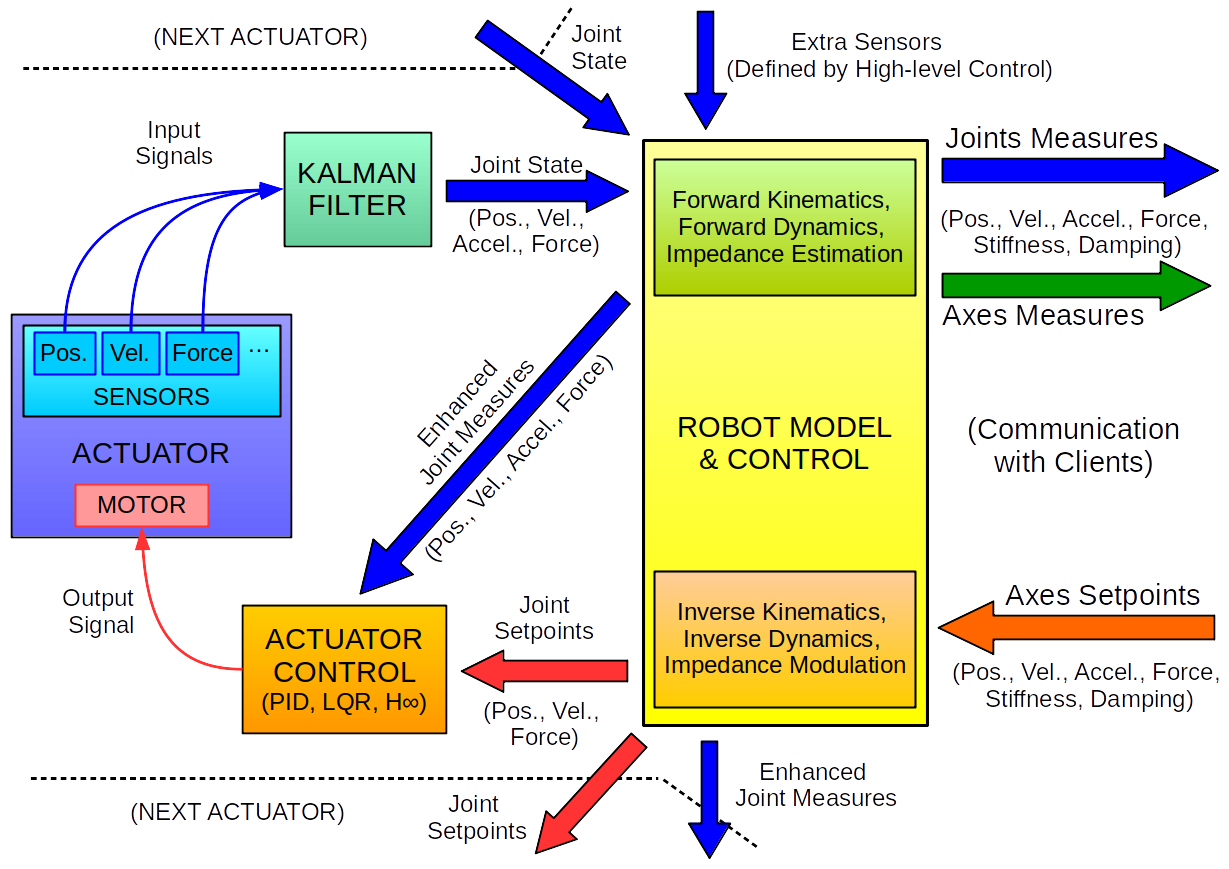
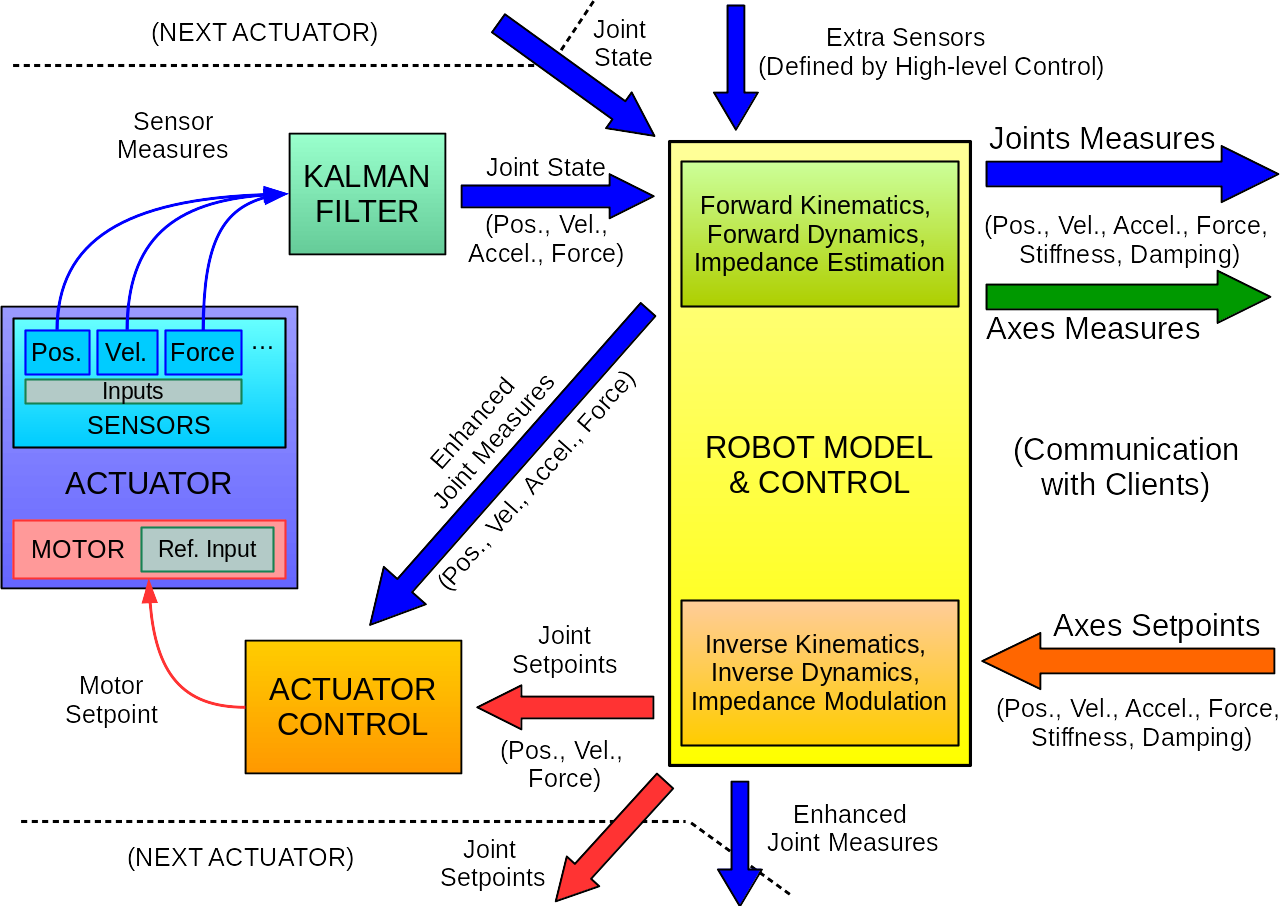
Update documentation

diff --git a/docs/index.html b/docs/index.html
@@ -109,19 +109,29 @@ $(document).ready(function(){initNavTree('index.html','');});
 <img src="https://raw.githubusercontent.com/EESC-MKGroup/RobotSystem-Lite/master/docs/img/control_abstraction_full.png" width="800" alt="" class="inline"/>
  <p>From top to bottom levels, the control application is expected to have/define:</p>
 <ul>
-<li>A <a href="https://en.wikipedia.org/wiki/Hash_table">hash table</a> containing one or more generic robot instances, complemented by:<ul>
-<li>A <a href="https://eesc-mkgroup.github.io/RobotSystem-Lite/robot_config.html">robot configuration</a> JSON file (inside **&lt;root_dir&gt;/config/robots/**), defining its used high-level control implementation and actuators</li>
-<li>The robot/actuators control itself, implemented as a plug-in library (inside **&lt;root_dir&gt;/plugins/robot_control/**), according to <a href="https://github.com/EESC-MKGroup/Robot-Control-Interface">Robot Control Interface</a> description</li>
-<li>A list of generic actuators list, each one, in turn, complemented by:<ul>
-<li>An <a href="https://eesc-mkgroup.github.io/RobotSystem-Lite/actuator_config.html">actuator configuration</a> JSON file (inside **&lt;root_dir&gt;/config/actuators/**), defining the lower-level control implementation, sensors and motor configuration and their related control variables (position, force, etc.)</li>
-<li>A list of generic sensors, each one, in turn, complemented by:<ul>
-<li><a href="https://eesc-mkgroup.github.io/RobotSystem-Lite/sensor_config.html">Sensor configuration</a> JSON file (inside **&lt;root_dir&gt;/config/sensors/**), defining the hardware/virtual input device/channel, reference sensor (if needed) and signal processing/conversion options</li>
+<li>The base robot instance (only 1 per control process), constituted by:<ul>
+<li>A <a href="https://eesc-mkgroup.github.io/RobotSystem-Lite/robot_config.html">robot configuration</a> JSON file (inside **&lt;root_dir&gt;/config/robots/**), defining its used high-level control implementation and actuator IDs</li>
+<li>The robot+actuators controller itself, implemented as a plug-in library (inside **&lt;root_dir&gt;/plugins/robot_control/**), according to <a href="https://github.com/EESC-MKGroup/Robot-Control-Interface">Robot Control Interface</a> description</li>
+<li>A list of generic actuators, with each one, in turn, composed of:<ul>
+<li>An <a href="https://eesc-mkgroup.github.io/RobotSystem-Lite/actuator_config.html">actuator configuration</a> JSON file (inside **&lt;root_dir&gt;/config/actuators/**), defining sensors and motor configuration IDs, their related control variables (position, force, etc.) and measurement deviations, as well as logging options</li>
+<li>A <a href="https://en.wikipedia.org/wiki/Kalman_filter">Kalman filter</a> for sensor fusion and complete joint state estimation</li>
+<li>A list of sensor IDs, each one, in turn, composed of:<ul>
+<li><a href="https://eesc-mkgroup.github.io/RobotSystem-Lite/sensor_config.html">Sensor configuration</a> JSON file (inside **&lt;root_dir&gt;/config/sensors/**), defining input sources inline configuration, inputs-output conversion expression and logging options</li>
+<li>A list of input sources, for which the configuration file defines:<ul>
 <li>The signal input code itself, implemented as a plug-in library (inside **&lt;root_dir&gt;/plugins/signal_io/**), according to <a href="https://github.com/EESC-MKGroup/Signal-IO-Interface">Signal I/O Interface</a> description</li>
+<li>Signal processing/conversion options</li>
 </ul>
 </li>
-<li>Generic actuation motor, complemented by:<ul>
-<li><a href="https://eesc-mkgroup.github.io/RobotSystem-Lite/motor_config.html">Motor configuration</a> JSON file (inside **&lt;root_dir&gt;/config/motors/**), defining the hardware/virtual output device/channel and signal generation options</li>
+</ul>
+</li>
+<li>Generic actuation motor, composed of:<ul>
+<li><a href="https://eesc-mkgroup.github.io/RobotSystem-Lite/motor_config.html">Motor configuration</a> JSON file (inside **&lt;root_dir&gt;/config/motors/**), defining the hardware/virtual output device/channel, reference input inline configuration (if needed), output conversion expression and logging options</li>
 <li>The signal output code itself, implemented as a plug-in library (inside **&lt;root_dir&gt;/plugins/signal_io/**), according to <a href="https://github.com/EESC-MKGroup/Signal-IO-Interface">Signal I/O Interface</a> description</li>
+<li>A optional reference input, for which the configuration file defines:<ul>
+<li>The signal input code itself, implemented as a plug-in library (inside **&lt;root_dir&gt;/plugins/signal_io/**), according to <a href="https://github.com/EESC-MKGroup/Signal-IO-Interface">Signal I/O Interface</a> description</li>
+<li>Signal processing/conversion options</li>
+</ul>
+</li>
 </ul>
 </li>
 </ul>

diff --git a/README.md b/README.md
@@ -48,17 +48,23 @@ In an effort to generalize and parameterize robot control in and efficient way, 
 
 From top to bottom levels, the control application is expected to have/define:
 
-- A [hash table](https://en.wikipedia.org/wiki/Hash_table) containing one or more generic robot instances, complemented by:
-    - A [robot configuration](https://eesc-mkgroup.github.io/RobotSystem-Lite/robot_config.html) JSON file (inside **<root_dir>/config/robots/**), defining its used high-level control implementation and actuators
-    - The robot/actuators control itself, implemented as a plug-in library (inside **<root_dir>/plugins/robot_control/**), according to [Robot Control Interface](https://github.com/EESC-MKGroup/Robot-Control-Interface) description
-    - A list of generic actuators list, each one, in turn, complemented by:
-        - An [actuator configuration](https://eesc-mkgroup.github.io/RobotSystem-Lite/actuator_config.html) JSON file (inside **<root_dir>/config/actuators/**), defining the lower-level control implementation, sensors and motor configuration and their related control variables (position, force, etc.)
-        - A list of generic sensors, each one, in turn, complemented by:
-            - [Sensor configuration](https://eesc-mkgroup.github.io/RobotSystem-Lite/sensor_config.html) JSON file (inside **<root_dir>/config/sensors/**), defining the hardware/virtual input device/channel, reference sensor (if needed) and signal processing/conversion options
-            - The signal input code itself, implemented as a plug-in library (inside **<root_dir>/plugins/signal_io/**), according to [Signal I/O Interface](https://github.com/EESC-MKGroup/Signal-IO-Interface) description
-        - Generic actuation motor, complemented by:
-            - [Motor configuration](https://eesc-mkgroup.github.io/RobotSystem-Lite/motor_config.html) JSON file (inside **<root_dir>/config/motors/**), defining the hardware/virtual output device/channel and signal generation options
+- The base robot instance (only 1 per control process), constituted by:
+    - A [robot configuration](https://eesc-mkgroup.github.io/RobotSystem-Lite/robot_config.html) JSON file (inside **<root_dir>/config/robots/**), defining its used high-level control implementation and actuator IDs
+    - The robot+actuators controller itself, implemented as a plug-in library (inside **<root_dir>/plugins/robot_control/**), according to [Robot Control Interface](https://github.com/EESC-MKGroup/Robot-Control-Interface) description
+    - A list of generic actuators, with each one, in turn, composed of:
+        - An [actuator configuration](https://eesc-mkgroup.github.io/RobotSystem-Lite/actuator_config.html) JSON file (inside **<root_dir>/config/actuators/**), defining sensors and motor configuration IDs, their related control variables (position, force, etc.) and measurement deviations, as well as logging options
+        - A [Kalman filter](https://en.wikipedia.org/wiki/Kalman_filter) for sensor fusion and complete joint state estimation 
+        - A list of sensor IDs, each one, in turn, composed of:
+            - [Sensor configuration](https://eesc-mkgroup.github.io/RobotSystem-Lite/sensor_config.html) JSON file (inside **<root_dir>/config/sensors/**), defining input sources inline configuration, inputs-output conversion expression and logging options
+            - A list of input sources, for which the configuration file defines:
+              - The signal input code itself, implemented as a plug-in library (inside **<root_dir>/plugins/signal_io/**), according to [Signal I/O Interface](https://github.com/EESC-MKGroup/Signal-IO-Interface) description
+              - Signal processing/conversion options
+        - Generic actuation motor, composed of:
+            - [Motor configuration](https://eesc-mkgroup.github.io/RobotSystem-Lite/motor_config.html) JSON file (inside **<root_dir>/config/motors/**), defining the hardware/virtual output device/channel, reference input inline configuration (if needed), output conversion expression and logging options
             - The signal output code itself, implemented as a plug-in library (inside **<root_dir>/plugins/signal_io/**), according to [Signal I/O Interface](https://github.com/EESC-MKGroup/Signal-IO-Interface) description
+            - A optional reference input, for which the configuration file defines:
+              - The signal input code itself, implemented as a plug-in library (inside **<root_dir>/plugins/signal_io/**), according to [Signal I/O Interface](https://github.com/EESC-MKGroup/Signal-IO-Interface) description
+              - Signal processing/conversion options
 
 With that structure, a multi-level control process can interact with external clients through a single interface (for comprehending the difference between **joints** and **axes**, see [**Robot Control Interface** rationale](https://github.com/EESC-MKGroup/Robot-Control-Interface#the-jointaxis-rationale)):
 
